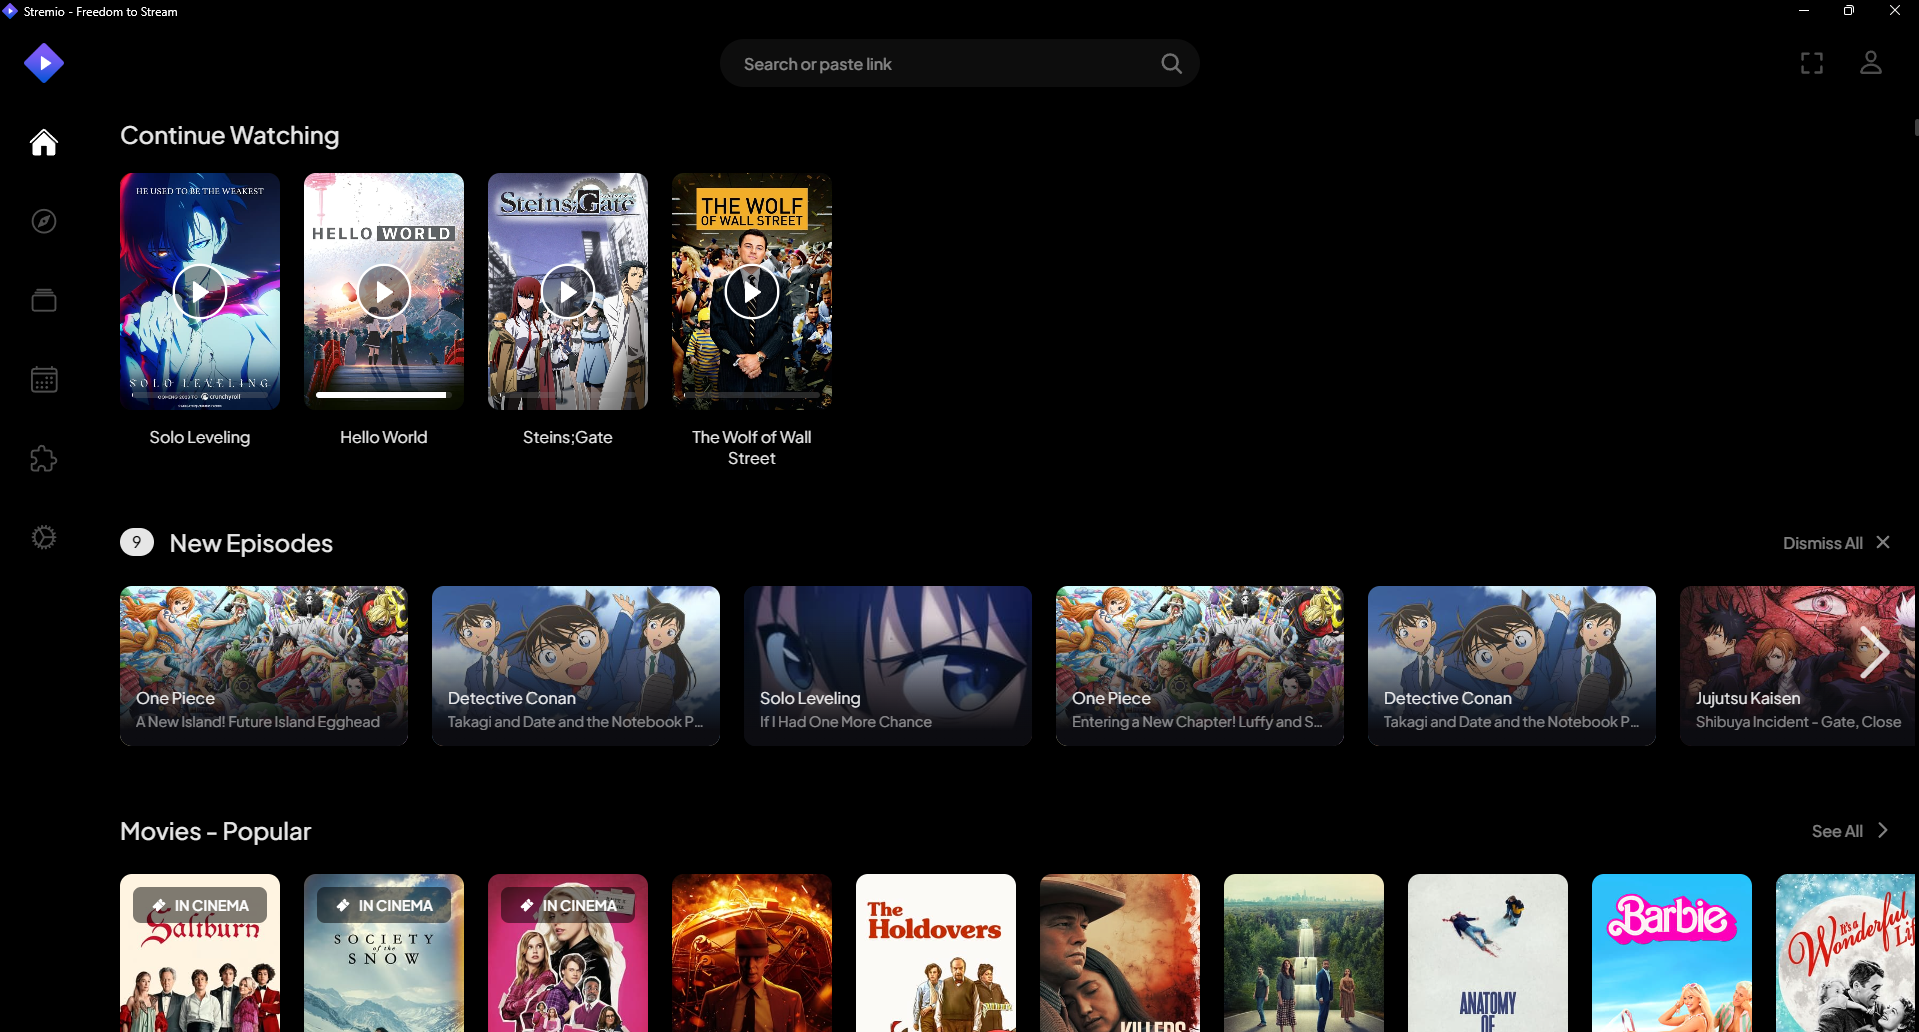
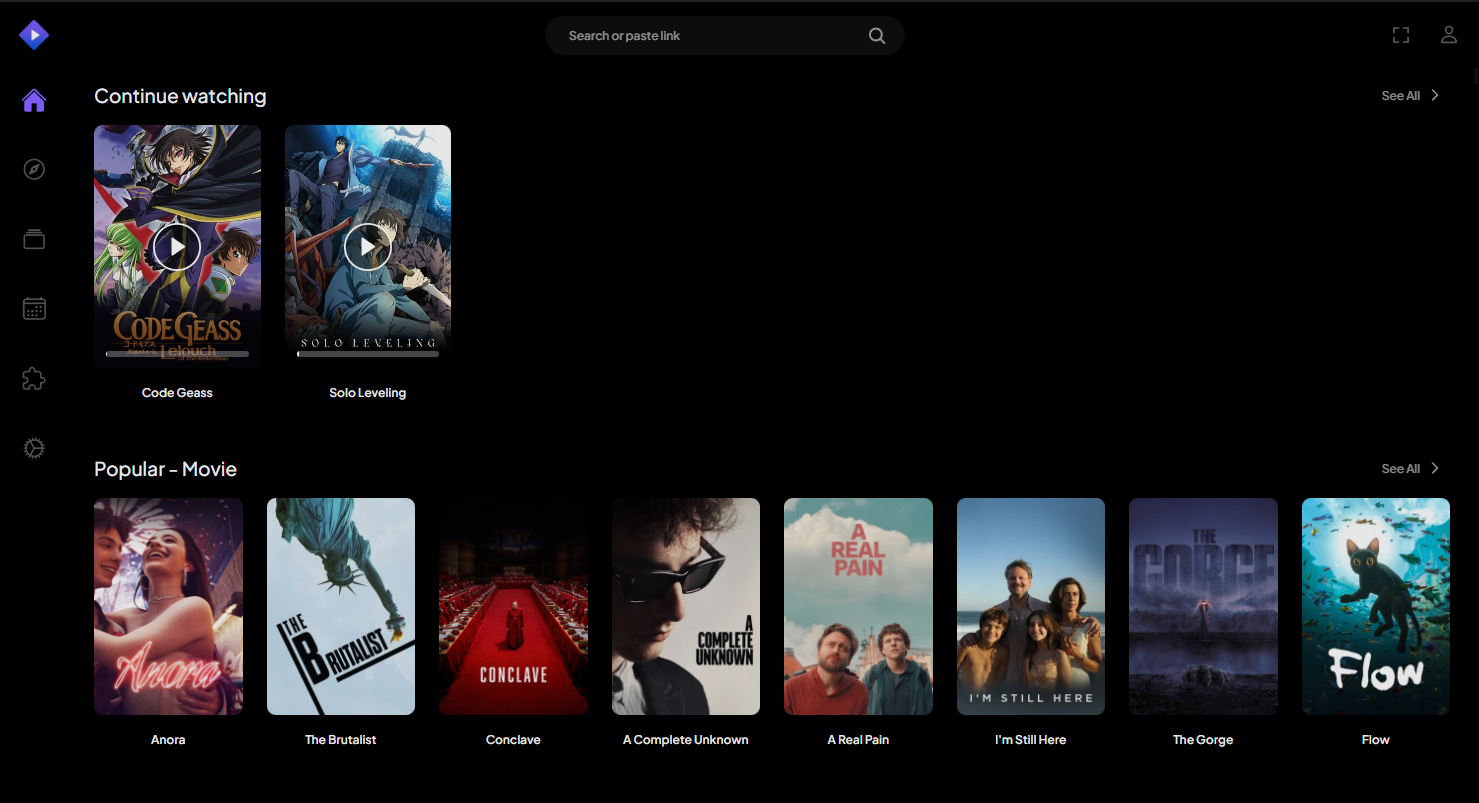
Fixed logger class names in ModManager, Settings, and Updater; updated todo list with new tasks. Updated screenshots for README.md

diff --git a/src/core/ModManager.ts b/src/core/ModManager.ts
@@ -9,7 +9,7 @@ import Properties from "./Properties";
 import { getApplyThemeTemplate } from "../components/apply-theme/applyTheme";
 
 class ModManager {
-    private static logger = getLogger("DiscordPresence");
+    private static logger = getLogger("ModManager");
     
     public static loadPlugin(pluginName:string) {
         if(document.getElementById(pluginName)) return;

diff --git a/src/core/Settings.ts b/src/core/Settings.ts
@@ -7,7 +7,7 @@ import { getLogger } from "../utils/logger";
 import ModManager from "./ModManager";
 
 class Settings {
-    private static logger = getLogger("DiscordPresence");
+    private static logger = getLogger("Settings");
 
     public static addSection(sectionid:string, title:string) {
         Helpers.waitForElm(`[class^="sections-container-"]`).then(() => {

diff --git a/src/core/Updater.ts b/src/core/Updater.ts
@@ -5,7 +5,7 @@ import { getLogger } from "../utils/logger";
 import { join } from "path";
 
 class Updater {
-    private static logger = getLogger("DiscordPresence");
+    private static logger = getLogger("Updater");
 
     public static async checkForUpdates(noUpdatePrompt: boolean) {
         try {

diff --git a/todo.md b/todo.md
@@ -1,10 +1,13 @@
 # Todo list
-- Migrate to https://web.stremio.com/ (v5) instead of shell4.4 (v4). The following things are what's left:
+- [x] Migrate to https://web.stremio.com/ (v5) instead of shell4.4 (v4). The following things are what's left:
   - [x] Fixing the audio tracks menu being disabled on Stremio Enhanced 
   - [x] Themes component and adding to list implementation
   - [x] Adding 'Enhanced' to the left navbar in the settings
   - [x] Fixing about category
   - [x] Fixing Discord Rich Presence implementation to work with v5
   - [x] Plugin/theme update reimplementation
-  - [ ] Fixing 'BetterEpisodeList' plugin to work on v5
-- Create more plugins/themes?
+- [ ] Create more plugins/themes?
+- [ ] Improve Update system: auto update so user doesn't have to download anything manually.
+- [ ] Support addons links by opening directly: instead of having the user copy and paste links.
+- [ ] Make it so if the user opens Discord after opening Stremio Enhanced, Discord Rich Presence still works.
+- [ ] In-app patch notes when an update is available.
